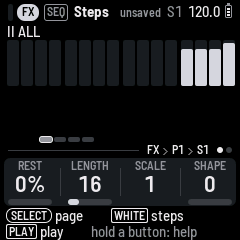
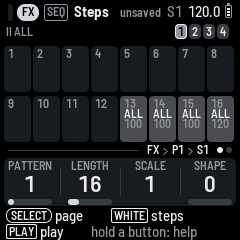
The FX sequence looks and plays as the throws': sixteen squares, a held step and a later key extend its amount, the throws' knobs with SHAPE for the groove

diff --git a/app/pages.c b/app/pages.c
@@ -1978,16 +1978,6 @@ static void page_knobs(knob_t *k)
         }
         if (!is_seqt(trk))
             break;
-        if (trk == AUX_FXSEQ && !LARGE) {            /* WARP-8, the FX sequence: where the lane's parameter rests, the
-                                                      * pattern's length, its steps' scale, its amounts' shape */
-            int ft, fp = fxseq_to(FXL_ID[ui.dsound % NFXLANE], &ft);
-            ktp(&k[0], ft, fp);
-            k[0].name = "REST";
-            kn(&k[1], "LENGTH", tp->len, NSTEP);
-            kname(&k[2], "SCALE", TS_NAME, tp->scale, NTS);
-            kn(&k[3], "SHAPE", tp->shape, 100);
-            break;
-        }
         if (kit_ui()) {                              /* WARP-8: the picked drum's four knobs, as EDIT's first page
                                                       * (the pattern: PRESETS; its length and swing: HOME; its
                                                       * scale: Bar) */
@@ -2004,7 +1994,10 @@ static void page_knobs(knob_t *k)
             kn(&k[0], "PATTERN", cur_pat(trk) + 1, NPATT);
         kn(&k[1], "LENGTH", tp->len, NSTEP);
         kname(&k[2], "SCALE", TS_NAME, tp->scale, NTS);
-        kn(&k[3], "GROOVE", tp->groove, 0);
+        if (trk == AUX_FXSEQ)                        /* (WARP-8, the FX sequence: its amounts' shape, no groove) */
+            kn(&k[3], "SHAPE", tp->shape, 100);
+        else
+            kn(&k[3], "GROOVE", tp->groove, 0);
         break;
     case P_BAR:
         if (!is_seqt(trk))
@@ -2550,7 +2543,7 @@ static void page_footer(char *t)
         else if (!is_seqt(trk))
             s_cat(t, "ALGO track: no steps here");
         else if (trk == AUX_FXSEQ && !LARGE && ui.page == P_STEPS)
-            s_cat(t, ui.held ? "KNOB 1 amount" : "BLACK lane|WHITE step|held: KNOB 1 amount");
+            s_cat(t, ui.held ? "KNOB 1 amount|a later WHITE: extend" : "BLACK lane|WHITE step|held: amount");
         else if (ui.lockpg)
             s_cat(t, "KNOBS lock|SELECT page|SEL held + KNOB clear");
         else if (ui.trickpg)
@@ -4228,38 +4221,6 @@ static void fxl_name(int lane, char *t)             /* "I ALL", "II decay", "I >
     t = s_cat(t, ft == AUX_FX1 ? "I " : "II ");
     s_cat(t, fp == TP_SEND1 ? "ALL" : fx_knob_name(proj.trk[ft].par[TP_ENGINE] % NFXPICK, fp - TP_E1));
 }
-/* WARP-8, the FX sequence's Steps: the picked lane's sixteen steps, a bar each amount; the other ten lanes thin
- * beneath, where they hold one */
-static void fx_lane(int pt, int ph, const tpat_t *tp)
-{
-    int lane = ui.dsound % NFXLANE;
-    char nm[24];
-    nm[0] = 0;
-    fxl_name(lane, nm);
-    upcase(nm);
-    cv_text(KL_X(0), 0, &FONT_S, nm, seq.mute >> AUX_FXSEQ & 1u ? K_FAINT : K_TEXT);
-    for (int i = 0; i < 16; i++) {
-        int s = ui.bar * 16 + i, v;
-        int32_t x = KL_X(i);
-        if (s >= tp->len)
-            continue;
-        v = fxl_val(pt, lane, s);
-        if (ui.held >> i & 1u)
-            cv_frame(x - 1, 15, 14, 48, 3, K_SEL, K_PANEL);
-        else
-            cv_round(x, 16, 12, 46, 2, playing() && s == ph && v == LOCK_NONE ? K_NOW_T : K_PANEL);
-        if (v != LOCK_NONE)
-            cv_round(x, 62 - (4 + v * 42 / 127), 12, 4 + v * 42 / 127, 2, playing() && s == ph ? K_TEXT : K_NOW);
-        for (int b = 0, r = 0; b < NFXLANE; b++) {
-            if (b == lane)
-                continue;
-            if (fxl_val(pt, b, s) != LOCK_NONE)
-                cv_rect(x, 78 + r * 3, 12, 2, K_DIM);
-            r++;
-        }
-    }
-    kg_bars((tp->len + 15) / 16, ph / 16);
-}
 static void draw_steps_as(void);
 static void draw_steps(void)                         /* large type: the cells in today's faces (eight across) */
 {
@@ -4272,21 +4233,6 @@ static void draw_steps_as(void)
 {
     if (sel_trk() == AUX_WEAVE) {
         draw_weave_steps();
-        return;
-    }
-    if (sel_trk() == AUX_FXSEQ && !LARGE) {          /* WARP-8: the FX sequence's lanes */
-        int pt = cur_pat(AUX_FXSEQ), ph = eng_step[AUX_FXSEQ];
-        const tpat_t *tp = tpat(AUX_FXSEQ);
-        uint32_t h = hash_u(hash_u(2166136261u, 0xF7u), (uint32_t)pt | (uint32_t)ui.bar << 4 | (uint32_t)ui.held << 8 |
-                                              (uint32_t)ui.dsound << 24 | (uint32_t)playing() << 28);
-        h = hash_u(h, (uint32_t)ph | (uint32_t)tp->len << 8 | (uint32_t)(seq.mute >> AUX_FXSEQ & 1u) << 16);
-        for (int b = 0; b < NFXLANE; b++)
-            for (int i = 0; i < 16; i++)
-                h = hash_u(h, (uint32_t)fxl_val(pt, b, ui.bar * 16 + i));
-        if (!begin_main(h))
-            return;
-        fx_lane(pt, ph, tp);
-        cv_blit(0, MAIN_Y);
         return;
     }
     {
@@ -4314,6 +4260,9 @@ static void draw_steps_as(void)
     }
     for (int i = 0; i < 16; i++)
         h = hash_u(h, step_has_lock(pats.lane, trk, pt, ui.bar * 16 + i));
+    if (trk == AUX_FXSEQ)                            /* (WARP-8, the FX sequence: the picked lane's amounts) */
+        for (int i = 0; i < 16; i++)
+            h = hash_u(h, (uint32_t)fxl_val(pt, ui.dsound, ui.bar * 16 + i));
     if (drum) {                                      /* (the grid names its lanes by their models, dims the muted;
                                                       * Generate draws what it would write) */
         h = hash_u(h, (uint32_t)ui.page | (uint32_t)ui.gen_kind << 8 | (uint32_t)ui.gen_hits << 12 | (uint32_t)ui.gen_rot << 18 |
@@ -4342,6 +4291,10 @@ static void draw_steps_as(void)
         char nm[NAME_LEN + 2];
         int32_t x = ST_X + 2;
         steps_head(trk, nm, t);
+        if (trk == AUX_FXSEQ) {                      /* (WARP-8, the FX sequence: the lane picked) */
+            nm[0] = t[0] = 0;
+            fxl_name(ui.dsound, t);
+        }
         if (nm[0])
             x = text_fit(x, 0, &FONT_XS, nm, 96, K_TEXT) + 8;
         if (t[0])
@@ -4365,7 +4318,8 @@ static void draw_steps_as(void)
         int32_t x = ST_X + (i % 8) * ST_CW, y = ST_Y + (i / 8) * (ST_CH + 4);
         uint16_t bg, fg;
         hit_t hm;
-        on = in && (pl_type(trk) == PL_RAND ? step_slot_on(tp, s) : step_on(st, trk));
+        on = in && (trk == AUX_FXSEQ ? fxl_val(pt, ui.dsound, s) != LOCK_NONE   /* (the FX sequence: an amount) */
+                    : pl_type(trk) == PL_RAND ? step_slot_on(tp, s) : step_on(st, trk));
         implicit = on && pl_type(trk) == PL_RAND && !step_slot_set(tp, s);   /* none set: all on, shown plain */
         bg = !in ? K_BG : on && !implicit ? K_TINT : K_PANEL;
         if (playing() && s == ph && in)
@@ -4413,6 +4367,14 @@ static void draw_steps_as(void)
                     num_i((st->note[0] ? st->note[0] : 60) / 12 - 1, o);
                     text_c(x + ST_MID, y + ST_L2, st_font(o), o, dim);
                 }
+            } else if (trk == AUX_FXSEQ) {           /* WARP-8, the FX sequence: the lane (ALL, K1..K4, I>II) over
+                                                      * its amount on the step */
+                static const char *const FXL_CELL[NFXLANE] = {"ALL", "K1", "K2", "K3", "K4", "ALL", "K1", "K2", "K3", "K4",
+                                                              "I>II"};
+                char a[4];
+                num_s((uint32_t)fxl_val(pt, ui.dsound, s), a);
+                text_c(x + ST_MID, y + ST_L1, &FONT_XS, FXL_CELL[ui.dsound % NFXLANE], fg);
+                text_c(x + ST_MID, y + ST_L2, &FONT_XS, a, dim);
             } else if (trk == AUX_PUNCH) {
                 int fx = st->note[0] - 1;
                 /* the effect in capitals (no descender to meet the line under it), three letters, over its group */
@@ -4484,7 +4446,7 @@ static void draw_steps_as(void)
             ga_text("%", x + 3, y + ST_MK + 4 + cv_oy, x + 7, y + ST_MK + 10 + cv_oy, 0);   /* audited as a label */
 #endif
         }
-        if (step_has_lock(pats.lane, trk, pt, s))
+        if (trk != AUX_FXSEQ && step_has_lock(pats.lane, trk, pt, s))   /* (the FX sequence's amounts are its steps) */
             cv_round(x + ST_CW - 9, y + 3, 4, 4, 2, K_REC);
     }
     {   /* lengths: a bar from a step across the steps its note covers, past the bar and round from the pattern's end

diff --git a/app/ui.c b/app/ui.c
@@ -829,6 +829,15 @@ static void step_length_to(int j)
     if (e <= s)
         return;
     undo_keep();
+    if (trk == AUX_FXSEQ && !LARGE) {            /* WARP-8, the FX sequence: the held step's amount on every step to
+                                                  * the later one (put on first if it has none) */
+        int v;
+        if (fxl_val(cur_pat(trk), ui.dsound, s) == LOCK_NONE)
+            fxl_step(s, 0);
+        v = fxl_val(cur_pat(trk), ui.dsound, s);
+        for (int q = s + 1; q <= e && v != LOCK_NONE; q++)
+            pats.lane[lane_find(pats.lane, trk, cur_pat(trk), FXL_ID[ui.dsound % NFXLANE])].val[q] = (uint8_t)v;
+    } else
     st->len = (uint8_t)step_len_code((e - s + 1) * 4);
     ui.held_used = 1;
     num_s((uint32_t)(e - s + 1), s_cat(t, "to step "));
@@ -2465,23 +2474,6 @@ static void steps_knob(int k, int32_t e)
     }
     if (!is_seqt(trk))
         return;
-    if (trk == AUX_FXSEQ && !LARGE) {            /* WARP-8, the FX sequence: knob 1 where the lane's parameter rests;
-                                                  * then the pattern's length, scale and shape */
-        if (k == 0) {
-            int ft, fp = fxseq_to(FXL_ID[ui.dsound % NFXLANE], &ft);
-            set_tp(ft, fp, proj.trk[ft].par[fp] + (int)e);
-            return;
-        }
-        undo_keep();
-        if (k == 1)
-            tp->len = (uint8_t)clampi(tp->len + e, 1, NSTEP);
-        else if (k == 2)
-            tp->scale = (uint8_t)clampi(tp->scale + e, 0, NTS - 1);
-        else
-            tp->shape = (uint8_t)clampi(tp->shape + e, 0, 100);
-        mark_dirty();
-        return;
-    }
     if (k == 0) {
         pattern_pick(trk, cued_pat(trk) + (int)e);
         return;
@@ -2493,6 +2485,8 @@ static void steps_knob(int k, int32_t e)
             ui.bar = (uint8_t)((tp->len - 1) / 16);
     } else if (k == 2)
         tp->scale = (uint8_t)clampi(tp->scale + e, 0, NTS - 1);
+    else if (trk == AUX_FXSEQ)                   /* (WARP-8, the FX sequence: its amounts' shape) */
+        tp->shape = (uint8_t)clampi(tp->shape + e, 0, 100);
     else
         tp->groove = (int8_t)clampi(tp->groove + e, -99, 99);
     mark_dirty();

diff --git a/docs/WARP-8.md b/docs/WARP-8.md
@@ -186,7 +186,7 @@ HOME held is LOOM-8's shift, as before: REC undoes, PLAY redoes, ALGORITHM picks
 
 ## The FX sequence
 
-<img src="img/warp-fxseq.png" width="240" alt="The FX sequence's Steps: the lane II ALL, four bars on steps 13 to 16, the last taller; the knobs REST, LENGTH, SCALE, SHAPE" title="The FX sequence">
+<img src="img/warp-fxseq.png" width="240" alt="The FX sequence's Steps: sixteen squares, the lane II ALL, steps 13 to 16 lit with ALL over 100, the last 120; the knobs PATTERN, LENGTH, SCALE, SHAPE" title="The FX sequence">
 
 A fifth sequence, beside the kit, the sample track, the slice track and the throws. Its steps hold **amounts**, not
 notes: how much of an effect, and when. Reach it with ALGORITHM on SEQ (after the throws), or HOME held + ALGORITHM.
@@ -204,19 +204,21 @@ It has eleven lanes. A black key picks one, as it picks a drum on the kit:
 | Control | Does |
 |---|---|
 | White key | A step of the picked lane. A tap gives it the lane's last amount, or takes it off |
+| A step held + a later white key | The held step's amount on every step up to that one, as a throw is made longer |
 | A step held + knob 1 | Its amount. Several held change together |
-| Knob 1 | REST: where the lane's parameter sits on the steps without an amount |
+| Knob 1, PRESETS | The pattern |
 | Knob 2, 3 | The pattern's length, and its steps' scale |
 | Knob 4 | SHAPE: at 0 an amount lasts its step; turned up, amounts hold and ramp to the next one |
-| PRESETS | The pattern |
 
-A step with an amount has it for that step; the next step without one gives the parameter back to REST. So a reverb
-on the last beat of every bar is the lane II ALL with steps 13 to 16 on. With SHAPE up, two steps far apart make a
-swell from one to the other.
+It looks and plays as the throws' sequence does: sixteen squares, the bars at the top right, a square lit where the
+picked lane has an amount, with the lane's short name (ALL, K1 to K4, I>II) over the amount.
 
-On Steps the picked lane's amounts are bars; the other lanes show as thin lines where they hold one. On Scenes the
-FX sequence is the fifth row, with its own pattern in each scene, and the fifth black key mutes it: muted, no amount
-is applied. EDIT, ENV, LFO and ARP have nothing for it and go back to the instrument.
+A step with an amount has it for that step; the next step without one gives the parameter back to where its own knob
+is (the effect's page, or ALL on its Mix strip). So a reverb on the last beat of every bar is the lane II ALL with
+steps 13 to 16 on: hold 13 and press 16. With SHAPE up, two steps far apart make a swell from one to the other.
+
+On Scenes the FX sequence is the fifth row, with its own pattern in each scene, and the fifth black key mutes it:
+muted, no amount is applied. EDIT, ENV, LFO and ARP have nothing for it and go back to the instrument.
 
 It differs from the throws in that a throw is on or off and this has an amount, and in that it only reaches the two
 effects: FX I and FX II, whatever they are set to.

diff --git a/docs/FX-SEQUENCE.md b/docs/FX-SEQUENCE.md
@@ -88,3 +88,12 @@ All of sections 1 to 4, as planned. `seq.h` `AUX_FXSEQ`, `fxseq_to`; `seq.c` `lo
 - Cost: 2.2 KB of flash. 1,760 B are left.
 - The picked lane is `ui.dsound`, shared with the kit's picked drum: coming back to the kit, the drum picked is the
   lane's number.
+
+## 7. Redrawn as the throws' sequence (2026-11-12, after 0.10)
+
+David asked for it to look and work more like the THROW sequencer. Steps is now LOOM-8's grid of sixteen squares
+(`draw_steps_as`'s own cells; `fx_lane` is gone): a square is lit where the picked lane has an amount, with the lane's
+short name over the number. A step held and a later key pressed puts the held step's amount on every step between
+(`step_length_to`), as a throw is made longer. The knobs are the throws': PATTERN, LENGTH, SCALE, and SHAPE where
+they have GROOVE; REST is gone (the parameter rests where its own knob is). The other lanes' thin lines are gone
+with the lane view: a lane is seen by picking it.
